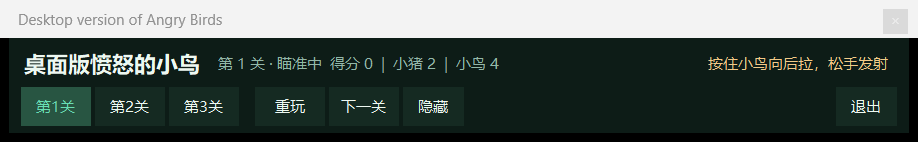
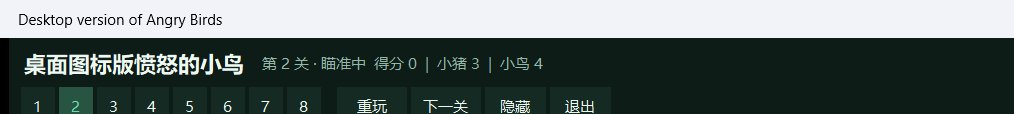
feat: add five more levels and dynamic level toolbar

diff --git a/dab/game.py b/dab/game.py
@@ -115,6 +115,74 @@ LEVELS = [
         [(150, 30, 46)],
         26000, 40000,
     ),
+    Level(
+        '双子屋', 5,
+        [
+            _b(WOOD, -350, 60, 24, 120),
+            _b(WOOD, -210, 60, 24, 120),
+            _b(WOOD, -280, 132, 180, 24),
+            _b(WOOD, 210, 60, 24, 120),
+            _b(WOOD, 350, 60, 24, 120),
+            _b(WOOD, 280, 132, 180, 24),
+        ],
+        [_p(-280, 30, 28), _p(-280, 172, 28), _p(280, 30, 28), _p(280, 172, 28)],
+        [(0, 30, 46)],
+        30000, 50000,
+    ),
+    Level(
+        '高塔', 5,
+        [
+            _b(WOOD, -70, 60, 24, 120),
+            _b(WOOD, 70, 60, 24, 120),
+            _b(WOOD, 0, 132, 180, 24),
+            _b(WOOD, -50, 190, 24, 90),
+            _b(WOOD, 50, 190, 24, 90),
+            _b(WOOD, 0, 247, 140, 24),
+        ],
+        [_p(0, 30, 28), _p(0, 176, 28), _p(0, 289, 28)],
+        [],
+        22000, 34000,
+    ),
+    Level(
+        '石桥', 5,
+        [
+            _b(STONE, -180, 70, 40, 140),
+            _b(STONE, 0, 70, 40, 140),
+            _b(STONE, 180, 70, 40, 140),
+            _b(STONE, 0, 153, 440, 26),
+        ],
+        [_p(-90, 30, 30), _p(90, 30, 30), _p(-120, 196, 30), _p(120, 196, 30)],
+        [],
+        28000, 44000,
+    ),
+    Level(
+        '火药库', 5,
+        [
+            _b(STONE, -100, 80, 36, 160),
+            _b(STONE, 100, 80, 36, 160),
+            _b(STONE, 0, 172, 260, 26),
+            _b(WOOD, -60, 230, 28, 90),
+            _b(WOOD, 60, 230, 28, 90),
+            _b(WOOD, 0, 286, 170, 24),
+        ],
+        [_p(-110, 30, 30), _p(110, 30, 30), _p(-70, 211, 30), _p(70, 211, 30)],
+        [(0, 30, 46)],
+        32000, 52000,
+    ),
+    Level(
+        '哨站', 5,
+        [
+            _b(WOOD, -220, 60, 24, 120),
+            _b(WOOD, -80, 60, 24, 120),
+            _b(WOOD, -150, 132, 180, 24),
+            _b(STONE, 180, 70, 40, 140),
+            _b(STONE, 320, 70, 40, 140),
+            _b(STONE, 250, 153, 180, 26),
+        ],
+        [_p(-150, 30, 28), _p(-150, 172, 28), _p(250, 30, 30), _p(250, 196, 30)],
+        [],
+        28000, 46000,
+    ),
 ]
 
 

diff --git a/dab/ui.py b/dab/ui.py
@@ -16,6 +16,7 @@ import win32con
 import win32gui
 
 from . import config, diag
+from .game import LEVELS
 from .hotkeys import Hotkeys
 from .overlay import GameOverlay
 from .paths import runtime_directory
@@ -88,7 +89,7 @@ class DesktopAngryBirdsApp:
         outer.pack(fill='both', expand=True)
         top = tk.Frame(outer, bg=BG)
         top.pack(fill='x')
-        tk.Label(top, text='桌面版愤怒的小鸟', bg=BG, fg=TEXT,
+        tk.Label(top, text='桌面图标版愤怒的小鸟', bg=BG, fg=TEXT,
                  font=('Microsoft YaHei UI', 13, 'bold')).pack(side='left', padx=(2, 12))
         self.status = tk.Label(top, text='准备中…', bg=BG, fg=MUTED,
                                font=('Microsoft YaHei UI', 9))
@@ -99,8 +100,8 @@ class DesktopAngryBirdsApp:
         buttons = tk.Frame(outer, bg=BG)
         buttons.pack(fill='x', pady=(6, 0))
         self.level_buttons = []
-        for index in range(3):
-            button = self._button(buttons, f'第{index + 1}关', lambda i=index: self.select_level(i), 6)
+        for index in range(len(LEVELS)):
+            button = self._button(buttons, f'{index + 1}', lambda i=index: self.select_level(i), 2)
             button.pack(side='left', padx=2)
             self.level_buttons.append(button)
         tk.Frame(buttons, bg=BG, width=12).pack(side='left')
@@ -108,11 +109,11 @@ class DesktopAngryBirdsApp:
         self._button(buttons, '下一关', self.next_level, 6).pack(side='left', padx=2)
         self.hide_button = self._button(buttons, '隐藏', self.toggle_hidden, 5)
         self.hide_button.pack(side='left', padx=2)
-        self._button(buttons, '退出', self.close, 5).pack(side='right', padx=2)
+        self._button(buttons, '退出', self.close, 5).pack(side='left', padx=2)
 
     def _place_toolbar(self):
         self.root.update_idletasks()
-        width = max(900, self.root.winfo_reqwidth())
+        width = max(1250, self.root.winfo_reqwidth())
         height = self.root.winfo_reqheight()
         monitor = win32api.MonitorFromPoint((0, 0), win32con.MONITOR_DEFAULTTOPRIMARY)
         work = win32api.GetMonitorInfo(monitor)['Work']

diff --git a/tests/test_game.py b/tests/test_game.py
@@ -58,6 +58,11 @@ class GameTests(unittest.TestCase):
             0: [-9],
             1: [-7],
             2: [-4, -7],
+            3: [-2],
+            4: [-15],
+            5: [-8, -5],
+            6: [-11],
+            7: [-15.5, -5],
         }
         for index, angles in cases.items():
             clock = Clock()

diff --git a/dab/config.py b/dab/config.py
@@ -3,7 +3,7 @@ from __future__ import annotations
 
 from pathlib import Path
 
-VERSION = '1.2.0'
+VERSION = '1.3.0'
 PRODUCT_NAME = '桌面版愤怒的小鸟'
 WINDOW_TITLE = 'Desktop version of Angry Birds'
 BASE = Path(__file__).resolve().parent.parent

diff --git a/README.md b/README.md
@@ -11,7 +11,7 @@
 - 按住弹弓上的**桌面图标小鸟**，向后拖动，松手发射。
 - 鼠标拖动时会显示虚线弹道；拖得越远，发射力度越大。
 - 砸中小猪、木块、石块和 TNT 会得分；清空所有小猪即可过关，剩余小鸟会奖励分数。
-- 顶部工具栏可切换 3 个关卡、重玩、下一关、隐藏游戏或退出。
+- 顶部工具栏可切换 8 个关卡、重玩、下一关、隐藏游戏或退出。
 - `Esc` 退出；`Ctrl+Alt+X` 是全局退出热键（游戏悬停在桌面时也有效）。
 
 ## 下载
@@ -34,7 +34,7 @@ python app.pyw
 - **真实桌面图标作为小鸟和猪**：通过 Windows Shell (`SHCreateItemFromParsingName` + `IImageFactory`) 提取图标缩略图，不截图、不复制文件；小鸟来自桌面快捷方式，小猪来自其他桌面应用图标，弹弓后方的待发射队列也会显示接下来的真实图标。
 - **真实桌面壁纸作为场景**：通过 `IDesktopWallpaper` 读取当前壁纸并按 Windows 的填充方式渲染到主显示器工作区，保留“桌面就是游戏场地”的感觉。
 - **桌面覆盖层**：用分层子窗口（`WS_EX_LAYERED`，挂在 Explorer 的 `SHELLDLL_DefView` 下）绘制游戏，并暂时隐藏真实图标列表；退出或崩溃恢复时重新显示。
-- **物理**：`pymunk` 刚体、重力、碰撞冲量与可破坏结构；三套关卡布局按屏幕尺寸缩放。
+- **物理**：`pymunk` 刚体、重力、碰撞冲量与可破坏结构；八套关卡布局按屏幕尺寸缩放。
 - **崩溃恢复**：独立 watchdog 进程监视游戏进程；主机异常退出时自动恢复桌面图标显示。
 - **布局安全**：使用 overlay-only 模式，不移动、不修改用户真实的桌面图标位置。
 
@@ -61,7 +61,7 @@ tests/test_game.py   无窗口物理/通关回归测试
 python -m unittest discover -s tests -v
 ```
 
-覆盖：三关静置 6 秒不自行倒塌；三关可按确定性角度通关。
+覆盖：全部关卡静置 6 秒不自行倒塌；全部关卡可按确定性角度通关。
 
 ## 来源与许可
 
